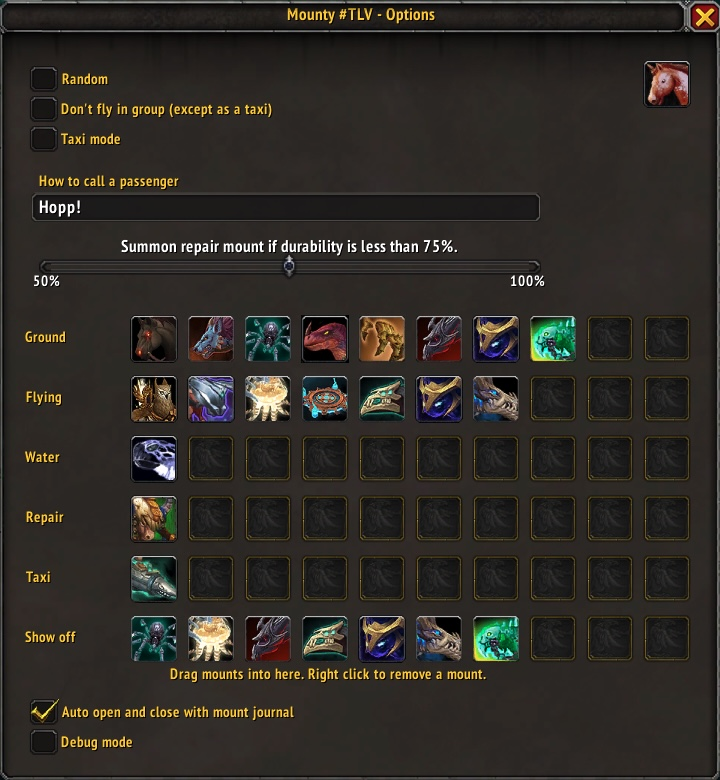
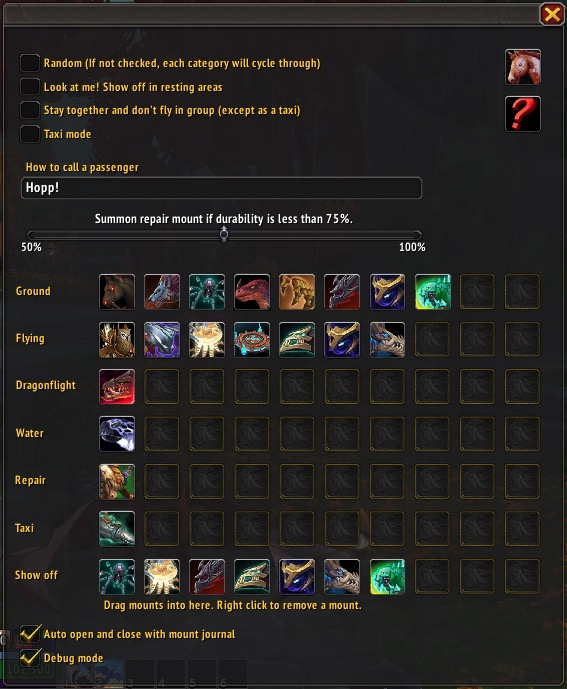
v2.3.2 - Much better Dragonflight check (I hope ;) - Updated preview screenshots

Changed region(s): [[0.0, 0.0, 1.0, 1.0]]

diff --git a/CHANGELOG.md b/CHANGELOG.md
@@ -2,6 +2,10 @@
 
 Full changelog: https://github.com/last-voice/mounty/blob/main/CHANGELOG.md
 
+v2.3.2
+- Much better Dragonflight check (I hope ;)
+- Updated preview screenshots
+
 v2.3.1
 - New key binding for ground mounts
 - Nicer wording
